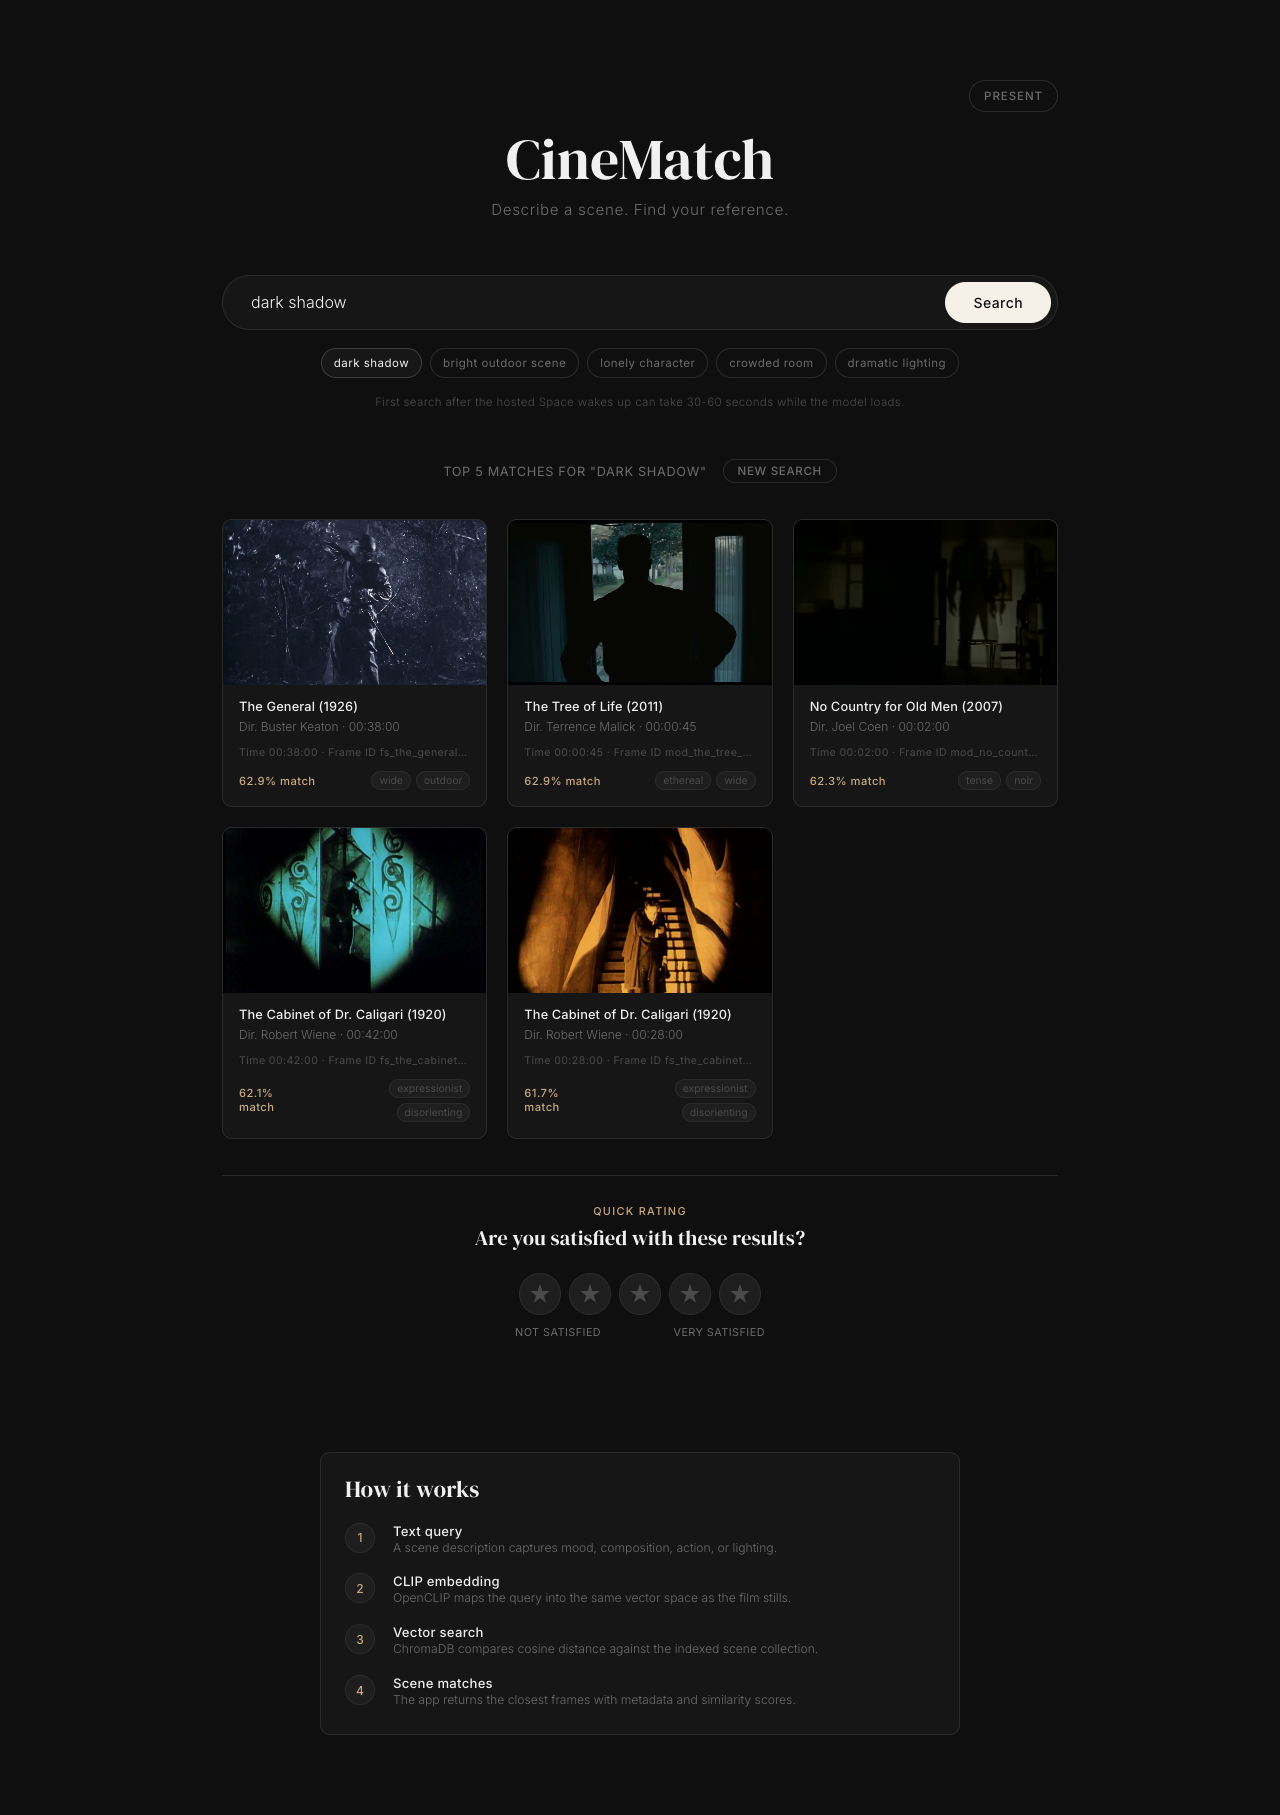
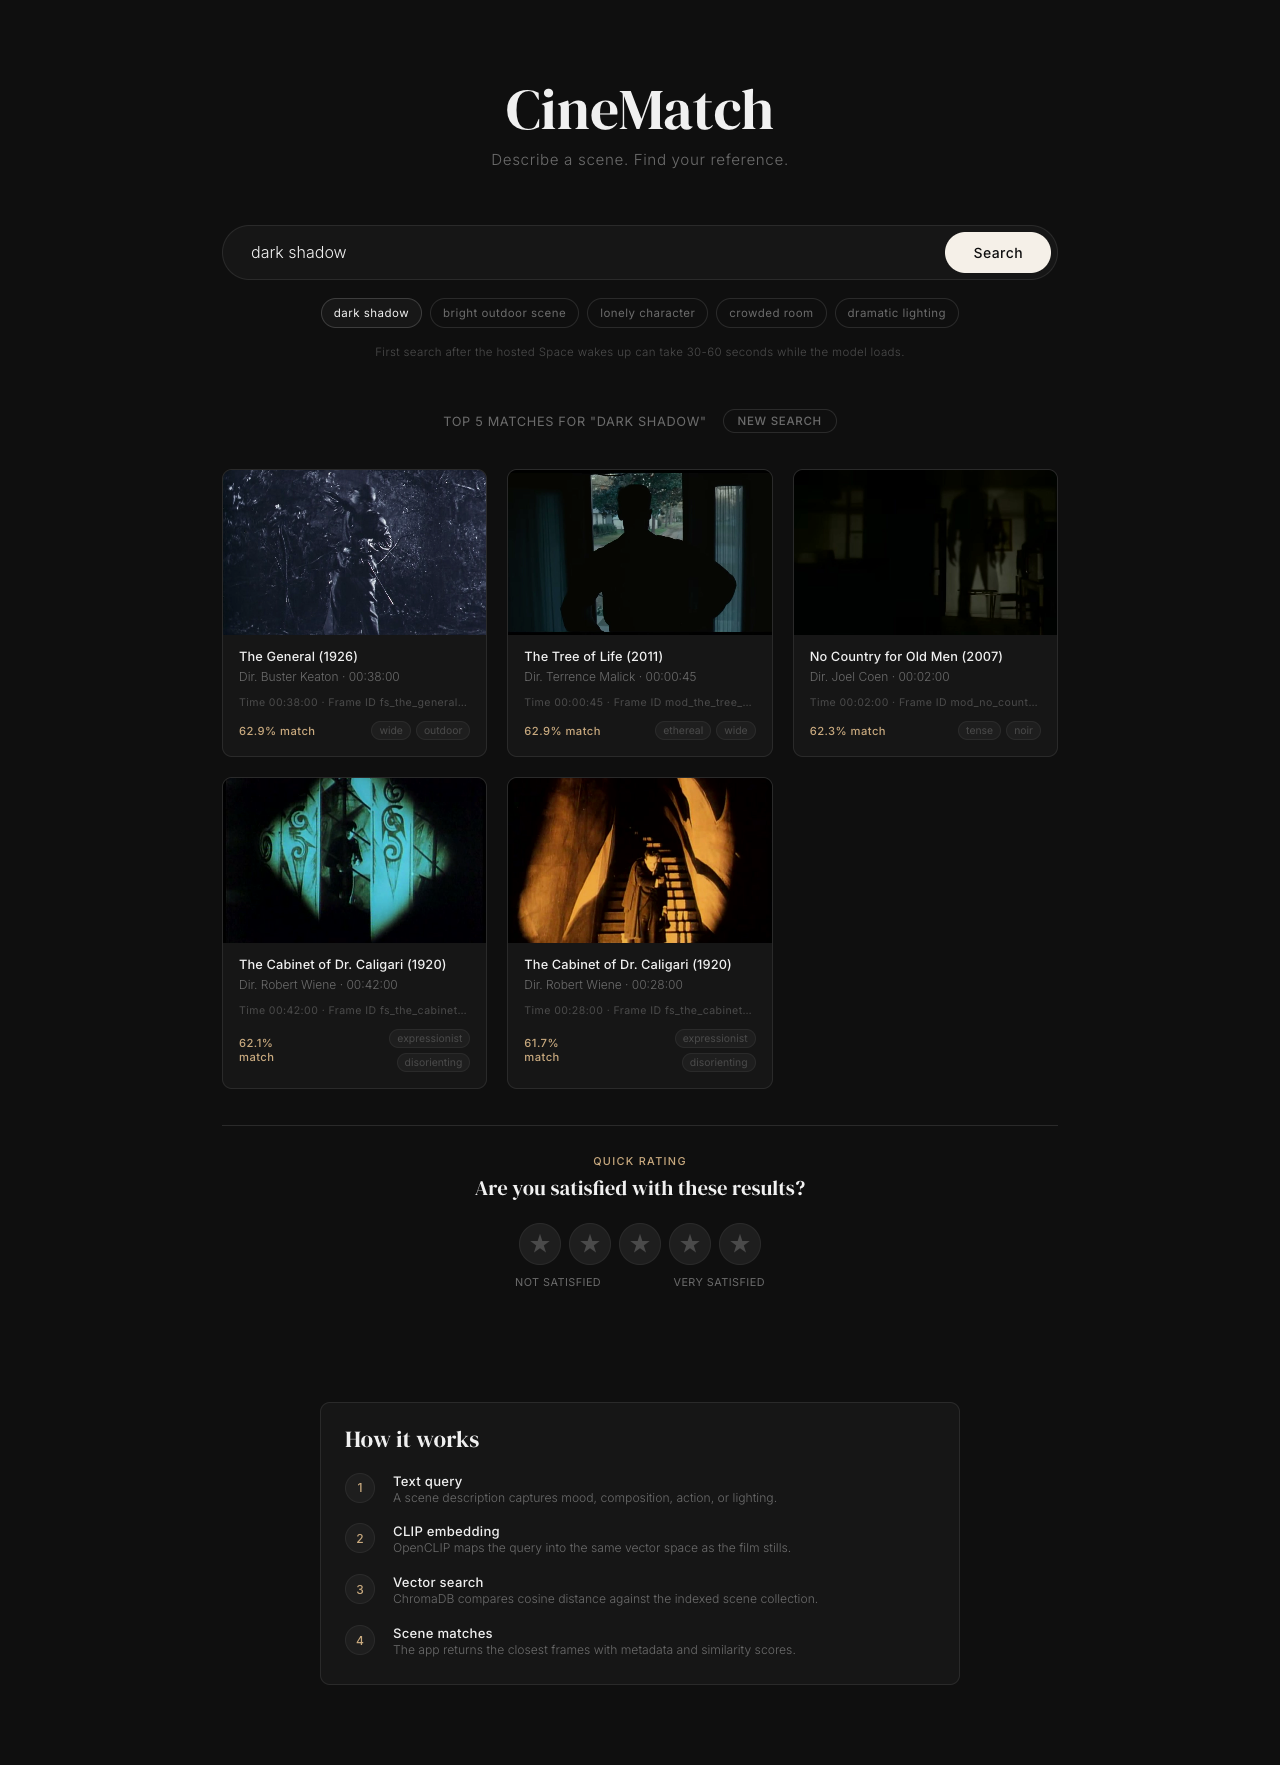
Remove present mode control

diff --git a/cinematch/frontend/style.css b/cinematch/frontend/style.css
@@ -40,37 +40,6 @@ body {
     padding: 80px 32px 80px;
 }
 
-.utility-bar {
-    display: flex;
-    justify-content: flex-end;
-    margin-bottom: 18px;
-}
-
-.ghost-btn {
-    min-width: 88px;
-    padding: 8px 14px;
-    border: 1px solid var(--border);
-    border-radius: 999px;
-    background: transparent;
-    color: var(--text-muted);
-    font-family: "Inter", system-ui, sans-serif;
-    font-size: 0.72rem;
-    font-weight: 500;
-    letter-spacing: 0.08em;
-    text-transform: uppercase;
-    cursor: pointer;
-    transition: border-color 0.2s, color 0.2s, background 0.2s;
-}
-
-.ghost-btn:hover,
-.ghost-btn:focus-visible,
-.ghost-btn[aria-pressed="true"] {
-    border-color: var(--score);
-    color: var(--score);
-    background: rgba(200,169,126,0.08);
-    outline: none;
-}
-
 /* ── Header ────────────────────────────────────────────── */
 header {
     text-align: center;
@@ -243,7 +212,7 @@ header h1 {
     gap: 20px;
 }
 
-.presentation-support {
+.pipeline-support {
     max-width: 640px;
     margin-top: 56px;
     margin-right: auto;
@@ -686,76 +655,4 @@ header h1 {
     font-weight: 300;
     padding: 60px 0;
     letter-spacing: 0.02em;
-}
-
-/* ── Presentation mode ────────────────────────────────── */
-body.presentation-mode .container {
-    max-width: 1180px;
-    padding-top: 42px;
-}
-
-body.presentation-mode header {
-    margin-bottom: 38px;
-}
-
-body.presentation-mode header h1 {
-    font-size: clamp(4rem, 8vw, 6.8rem);
-}
-
-body.presentation-mode .subtitle {
-    font-size: 1.1rem;
-}
-
-body.presentation-mode .search-wrap {
-    max-width: 900px;
-    margin: 0 auto 46px;
-}
-
-body.presentation-mode #query-input {
-    font-size: 1.15rem;
-}
-
-body.presentation-mode #search-btn {
-    font-size: 0.95rem;
-    padding: 14px 34px;
-}
-
-body.presentation-mode .demo-queries button {
-    padding: 9px 15px;
-    font-size: 0.82rem;
-}
-
-body.presentation-mode .presentation-support {
-    display: none;
-}
-
-body.presentation-mode .results-grid {
-    grid-template-columns: repeat(2, 1fr);
-    gap: 24px;
-}
-
-body.presentation-mode .card-body {
-    padding: 18px 20px 20px;
-}
-
-body.presentation-mode .card-body .source {
-    font-size: 0.95rem;
-}
-
-body.presentation-mode .card-body .description {
-    font-size: 0.85rem;
-}
-
-body.presentation-mode .card-body .similarity {
-    font-size: 0.8rem;
-}
-
-body.presentation-mode .feedback-bar {
-    display: none;
-}
-
-@media (max-width: 680px) {
-    body.presentation-mode .results-grid {
-        grid-template-columns: 1fr;
-    }
 }

diff --git a/cinematch/frontend/app.js b/cinematch/frontend/app.js
@@ -3,7 +3,6 @@ const searchBtn = document.getElementById("search-btn");
 const resultsDiv = document.getElementById("results");
 const statusText = document.getElementById("status-text");
 const newSearchBtn = document.getElementById("new-search-btn");
-const presentToggle = document.getElementById("present-toggle");
 
 let lastSearchQuery = "";
 let searchSequence = 0;
@@ -199,35 +198,6 @@ function getFrameLabel(scene, includeFile) {
     return parts.join("  ·  ");
 }
 
-function isPresentationMode() {
-    return document.body.classList.contains("presentation-mode");
-}
-
-function setPresentationMode(enabled, persist) {
-    document.body.classList.toggle("presentation-mode", enabled);
-    presentToggle.setAttribute("aria-pressed", enabled ? "true" : "false");
-    presentToggle.textContent = enabled ? "Exit Present" : "Present";
-    if (persist) {
-        localStorage.setItem("cinematch_presentation_mode", enabled ? "1" : "0");
-        const url = new URL(window.location.href);
-        if (enabled) {
-            url.searchParams.set("present", "1");
-        } else {
-            url.searchParams.delete("present");
-        }
-        window.history.replaceState({}, "", url);
-    }
-}
-
-function loadPresentationPreference() {
-    const params = new URLSearchParams(window.location.search);
-    if (params.get("present") === "1") {
-        setPresentationMode(true, false);
-        return;
-    }
-    setPresentationMode(localStorage.getItem("cinematch_presentation_mode") === "1", false);
-}
-
 function createSceneCard(scene) {
     const card = document.createElement("div");
     card.className = "scene-card";
@@ -356,9 +326,3 @@ document.querySelectorAll("[data-query]").forEach(function (button) {
         search();
     });
 });
-
-presentToggle.addEventListener("click", function () {
-    setPresentationMode(!isPresentationMode(), true);
-});
-
-loadPresentationPreference();

diff --git a/cinematch/frontend/index.html b/cinematch/frontend/index.html
@@ -12,10 +12,6 @@
 </head>
 <body>
     <div class="container">
-        <div class="utility-bar">
-            <button id="present-toggle" class="ghost-btn" type="button" aria-pressed="false">Present</button>
-        </div>
-
         <header>
             <h1>CineMatch</h1>
             <p class="subtitle">Describe a scene. Find your reference.</p>
@@ -51,7 +47,7 @@
         </div>
         <div id="results" class="results-grid"></div>
 
-        <section class="presentation-support" aria-label="Presentation support">
+        <section class="pipeline-support" aria-label="Retrieval pipeline">
             <div class="support-panel">
                 <h2>How it works</h2>
                 <ol class="pipeline">
@@ -85,7 +81,6 @@
                     </li>
                 </ol>
             </div>
-
         </section>
     </div>
 

diff --git a/cinematch/README.md b/cinematch/README.md
@@ -77,7 +77,6 @@ Last deploy workflow smoke test: 2026-04-20.
 The frontend includes a polished demo surface:
 
 - Preset queries: `dark shadow`, `bright outdoor scene`, `lonely character`, `crowded room`, and `dramatic lighting`
-- Presenter mode: click **Present** or open [http://localhost:8000/?present=1](http://localhost:8000/?present=1)
 - Cold-start note: the UI sets expectations when the hosted Space is waking up
 - Result metadata: each match shows title, director, timestamp, frame ID, tone tags, and similarity score
 - In-app explanation: the lower panel summarizes the CLIP-to-ChromaDB retrieval pipeline
@@ -85,10 +84,6 @@ The frontend includes a polished demo surface:
 Fallback screenshots:
 
 ![CineMatch demo results](docs/screenshots/demo-results.png)
-
-![CineMatch presentation mode](docs/screenshots/presentation-mode.png)
-
-![CineMatch mobile presentation mode](docs/screenshots/mobile-presentation-mode.png)
 
 ## Free Hosted Demo
 
